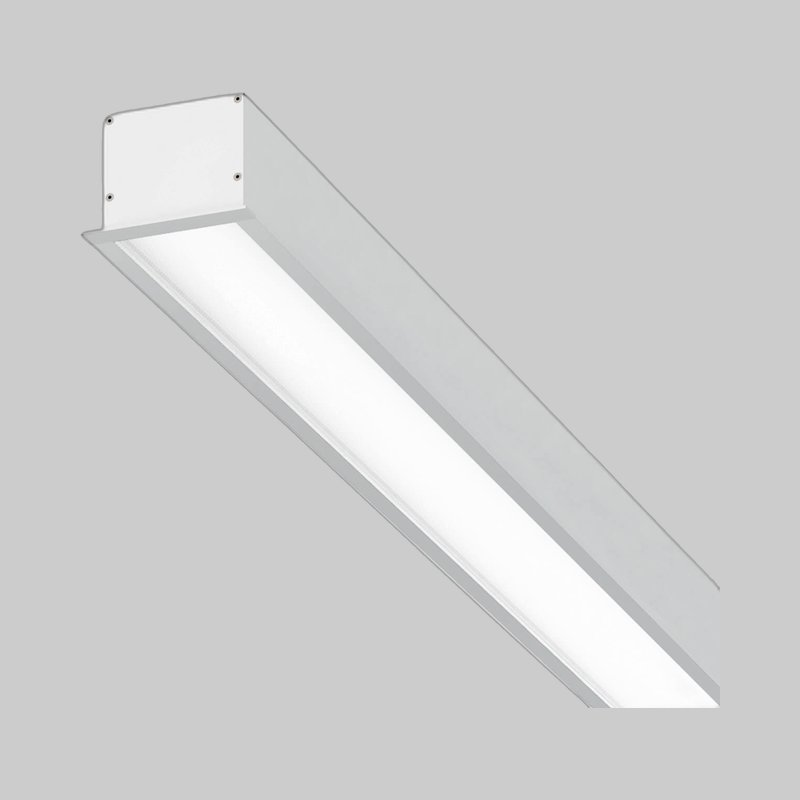
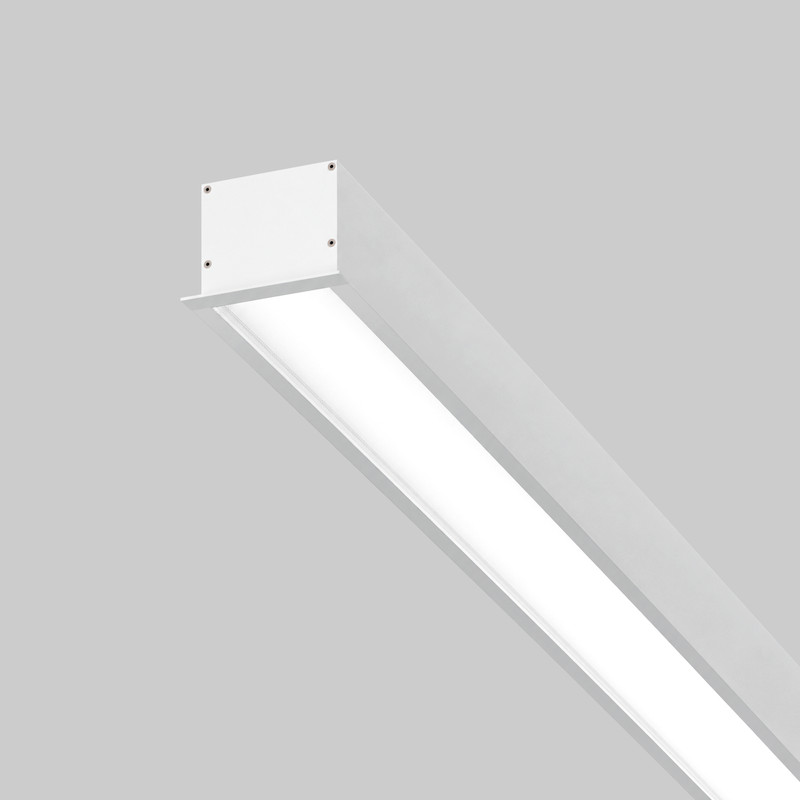
Profiles: cut ends of Twos, Twos Display and Groove Display sit on the tile edge
Twos PC and Combo PG Spots re-framed (cut end left, cable to the top),
Twos Display DK black/white and Diffuser white re-framed from the corrected
renders, and the three family thumbnails now use the corrected photos.

Claude-Session: https://claude.ai/code/session_013gY9EkMdQhEEWps6SMLP8q

Changed region(s): [[0.0938, 0.0938, 1.0, 1.0], [0.8438, 0.6875, 0.875, 0.7188], [0.4688, 0.2812, 0.5, 0.3125]]

diff --git a/public/products/inground-radius-rgbw/index.html b/public/products/inground-radius-rgbw/index.html
@@ -632,7 +632,7 @@ footer a{text-decoration:none}footer a:hover{color:var(--accent-ink)}
 </div></header>
 
 <main id="app" aria-live="polite"><section class="pslider" aria-roledescription="carousel" aria-label="Inground Radius RGBW"><div class="pslides" id="pslides"><div class="pslide" aria-roledescription="slide" aria-label="1 of 2"><img src="images/inground-radius-rgbw/inground-radius-rgbw-banner-01.jpg" alt="Inground Radius RGBW installed"></div><div class="pslide" aria-roledescription="slide" aria-label="2 of 2"><img src="images/inground-radius-rgbw/inground-radius-rgbw-banner-02.jpg" alt="Inground Radius RGBW installed" loading="lazy"></div></div>
-    <div class="ptext"><div class="wrap"><div class="inner"><div class="pt-title">Inground Radius RGBW</div><div class="pt-dots" id="sDots" role="tablist" aria-label="Slides"><button role="tab" data-i="0" aria-label="Slide 1" aria-selected="true"></button><button role="tab" data-i="1" aria-label="Slide 2" aria-selected="false"></button></div></div></div></div></section><div class="wrap"><div class="crumbs"><a href="#home">Home</a><span class="sep">/</span><a href="#exterior">Exterior</a><span class="sep">/</span><a href="#c-exterior-inground-linear">Inground Linear</a><span class="sep">/</span><span>Inground Radius RGBW</span></div>
+    <div class="ptext light"><div class="wrap"><div class="inner"><div class="pt-title">Inground Radius RGBW</div><div class="pt-dots" id="sDots" role="tablist" aria-label="Slides"><button role="tab" data-i="0" aria-label="Slide 1" aria-selected="true"></button><button role="tab" data-i="1" aria-label="Slide 2" aria-selected="false"></button></div></div></div></div></section><div class="wrap"><div class="crumbs"><a href="#home">Home</a><span class="sep">/</span><a href="#exterior">Exterior</a><span class="sep">/</span><a href="#c-exterior-inground-linear">Inground Linear</a><span class="sep">/</span><span>Inground Radius RGBW</span></div>
   <div class="p-top">
     <div class="p-info"><div class="p-intro"><h1>Inground Radius RGBW</h1>
       <div class="sub">Inground Linear · Exterior</div>

diff --git a/public/products/inground-radius-rgb/index.html b/public/products/inground-radius-rgb/index.html
@@ -632,7 +632,7 @@ footer a{text-decoration:none}footer a:hover{color:var(--accent-ink)}
 </div></header>
 
 <main id="app" aria-live="polite"><section class="pslider" aria-roledescription="carousel" aria-label="Inground Radius RGB"><div class="pslides" id="pslides"><div class="pslide" aria-roledescription="slide" aria-label="1 of 2"><img src="images/inground-radius-rgb/inground-radius-rgb-banner-01.jpg" alt="Inground Radius RGB installed"></div><div class="pslide" aria-roledescription="slide" aria-label="2 of 2"><img src="images/inground-radius-rgb/inground-radius-rgb-banner-02.jpg" alt="Inground Radius RGB installed" loading="lazy"></div></div>
-    <div class="ptext light"><div class="wrap"><div class="inner"><div class="pt-title">Inground Radius RGB</div><div class="pt-dots" id="sDots" role="tablist" aria-label="Slides"><button role="tab" data-i="0" aria-label="Slide 1" aria-selected="true"></button><button role="tab" data-i="1" aria-label="Slide 2" aria-selected="false"></button></div></div></div></div></section><div class="wrap"><div class="crumbs"><a href="#home">Home</a><span class="sep">/</span><a href="#exterior">Exterior</a><span class="sep">/</span><a href="#c-exterior-inground-linear">Inground Linear</a><span class="sep">/</span><span>Inground Radius RGB</span></div>
+    <div class="ptext"><div class="wrap"><div class="inner"><div class="pt-title">Inground Radius RGB</div><div class="pt-dots" id="sDots" role="tablist" aria-label="Slides"><button role="tab" data-i="0" aria-label="Slide 1" aria-selected="true"></button><button role="tab" data-i="1" aria-label="Slide 2" aria-selected="false"></button></div></div></div></div></section><div class="wrap"><div class="crumbs"><a href="#home">Home</a><span class="sep">/</span><a href="#exterior">Exterior</a><span class="sep">/</span><a href="#c-exterior-inground-linear">Inground Linear</a><span class="sep">/</span><span>Inground Radius RGB</span></div>
   <div class="p-top">
     <div class="p-info"><div class="p-intro"><h1>Inground Radius RGB</h1>
       <div class="sub">Inground Linear · Exterior</div>

diff --git a/tools/archive/scripts/profile_anchor.py b/tools/archive/scripts/profile_anchor.py
@@ -1,0 +1,29 @@
+import json,sys,shutil,numpy as np
+from PIL import Image
+from scipy import ndimage
+sys.path.insert(0,'/home/claude/site/archive/scripts'); from photo2 import save_jpg
+S='/home/claude/site/images/'
+D='/mnt/user-data/uploads/ESSE-CI CORRECTIONS PART 2/'; L=json.load(open('/tmp/claude-0/esse/c2_list.json'))
+def anchor(src,dst,sides,fx=0.8,fy=0.9):
+    a=np.asarray(Image.open(src).convert('RGB'),np.float32); H,W=a.shape[:2]
+    b=np.concatenate([a[:3].reshape(-1,3),a[-3:].reshape(-1,3),a[:,:3].reshape(-1,3),a[:,-3:].reshape(-1,3)])
+    bg=np.median(b,0); a=np.clip(a*(204/bg),0,255)
+    d=np.abs(a-204).max(-1); w=np.clip((d-3)/5,0,1)[...,None]; a=a*w+204*(1-w)
+    m=ndimage.binary_opening(d>10,iterations=2); lab,n=ndimage.label(m)
+    sz=ndimage.sum(m,lab,range(1,n+1)); m=np.isin(lab,[k+1 for k,v in enumerate(sz) if v>=60])
+    ys,xs=np.where(m); x0,x1,y0,y1=xs.min(),xs.max(),ys.min(),ys.max()
+    bw,bh=x1-x0+1,y1-y0+1
+    side=max(bw/fx,bh/fy)
+    X=x0 if 'l' in sides else (x1+1-side if 'r' in sides else (x0+x1)/2-side/2)
+    Y=y0 if 't' in sides else (y1+1-side if 'b' in sides else (y0+y1)/2-side/2)
+    c=Image.new('RGB',(round(side),round(side)),(204,204,204))
+    c.paste(Image.fromarray(a.round().astype(np.uint8)),(round(-X),round(-Y)))
+    save_jpg(c.resize((800,800),Image.LANCZOS),dst)
+T=S+'twos/'; TD=S+'twos-display/'
+for f in ['twos-pc-black','twos-pc-white','twos-combo-pg-spots-black','twos-combo-pg-spots-white']:
+    anchor(T+f+'.jpg',T+f+'.jpg','lt')
+for i,f in ((49,'twos-display-dk-black'),(51,'twos-display-diffuser-white'),(52,'twos-display-dk-white')):
+    anchor(D+L[i],TD+f+'.jpg','l')
+shutil.copy(T+'twos-dk-black.jpg',T+'twos-thumb.jpg')
+shutil.copy(TD+'twos-display-dk-black.jpg',TD+'twos-display-thumb.jpg')
+shutil.copy(S+'groove-display/groove-display-profile-white.jpg',S+'groove-display/groove-display-thumb.jpg')
